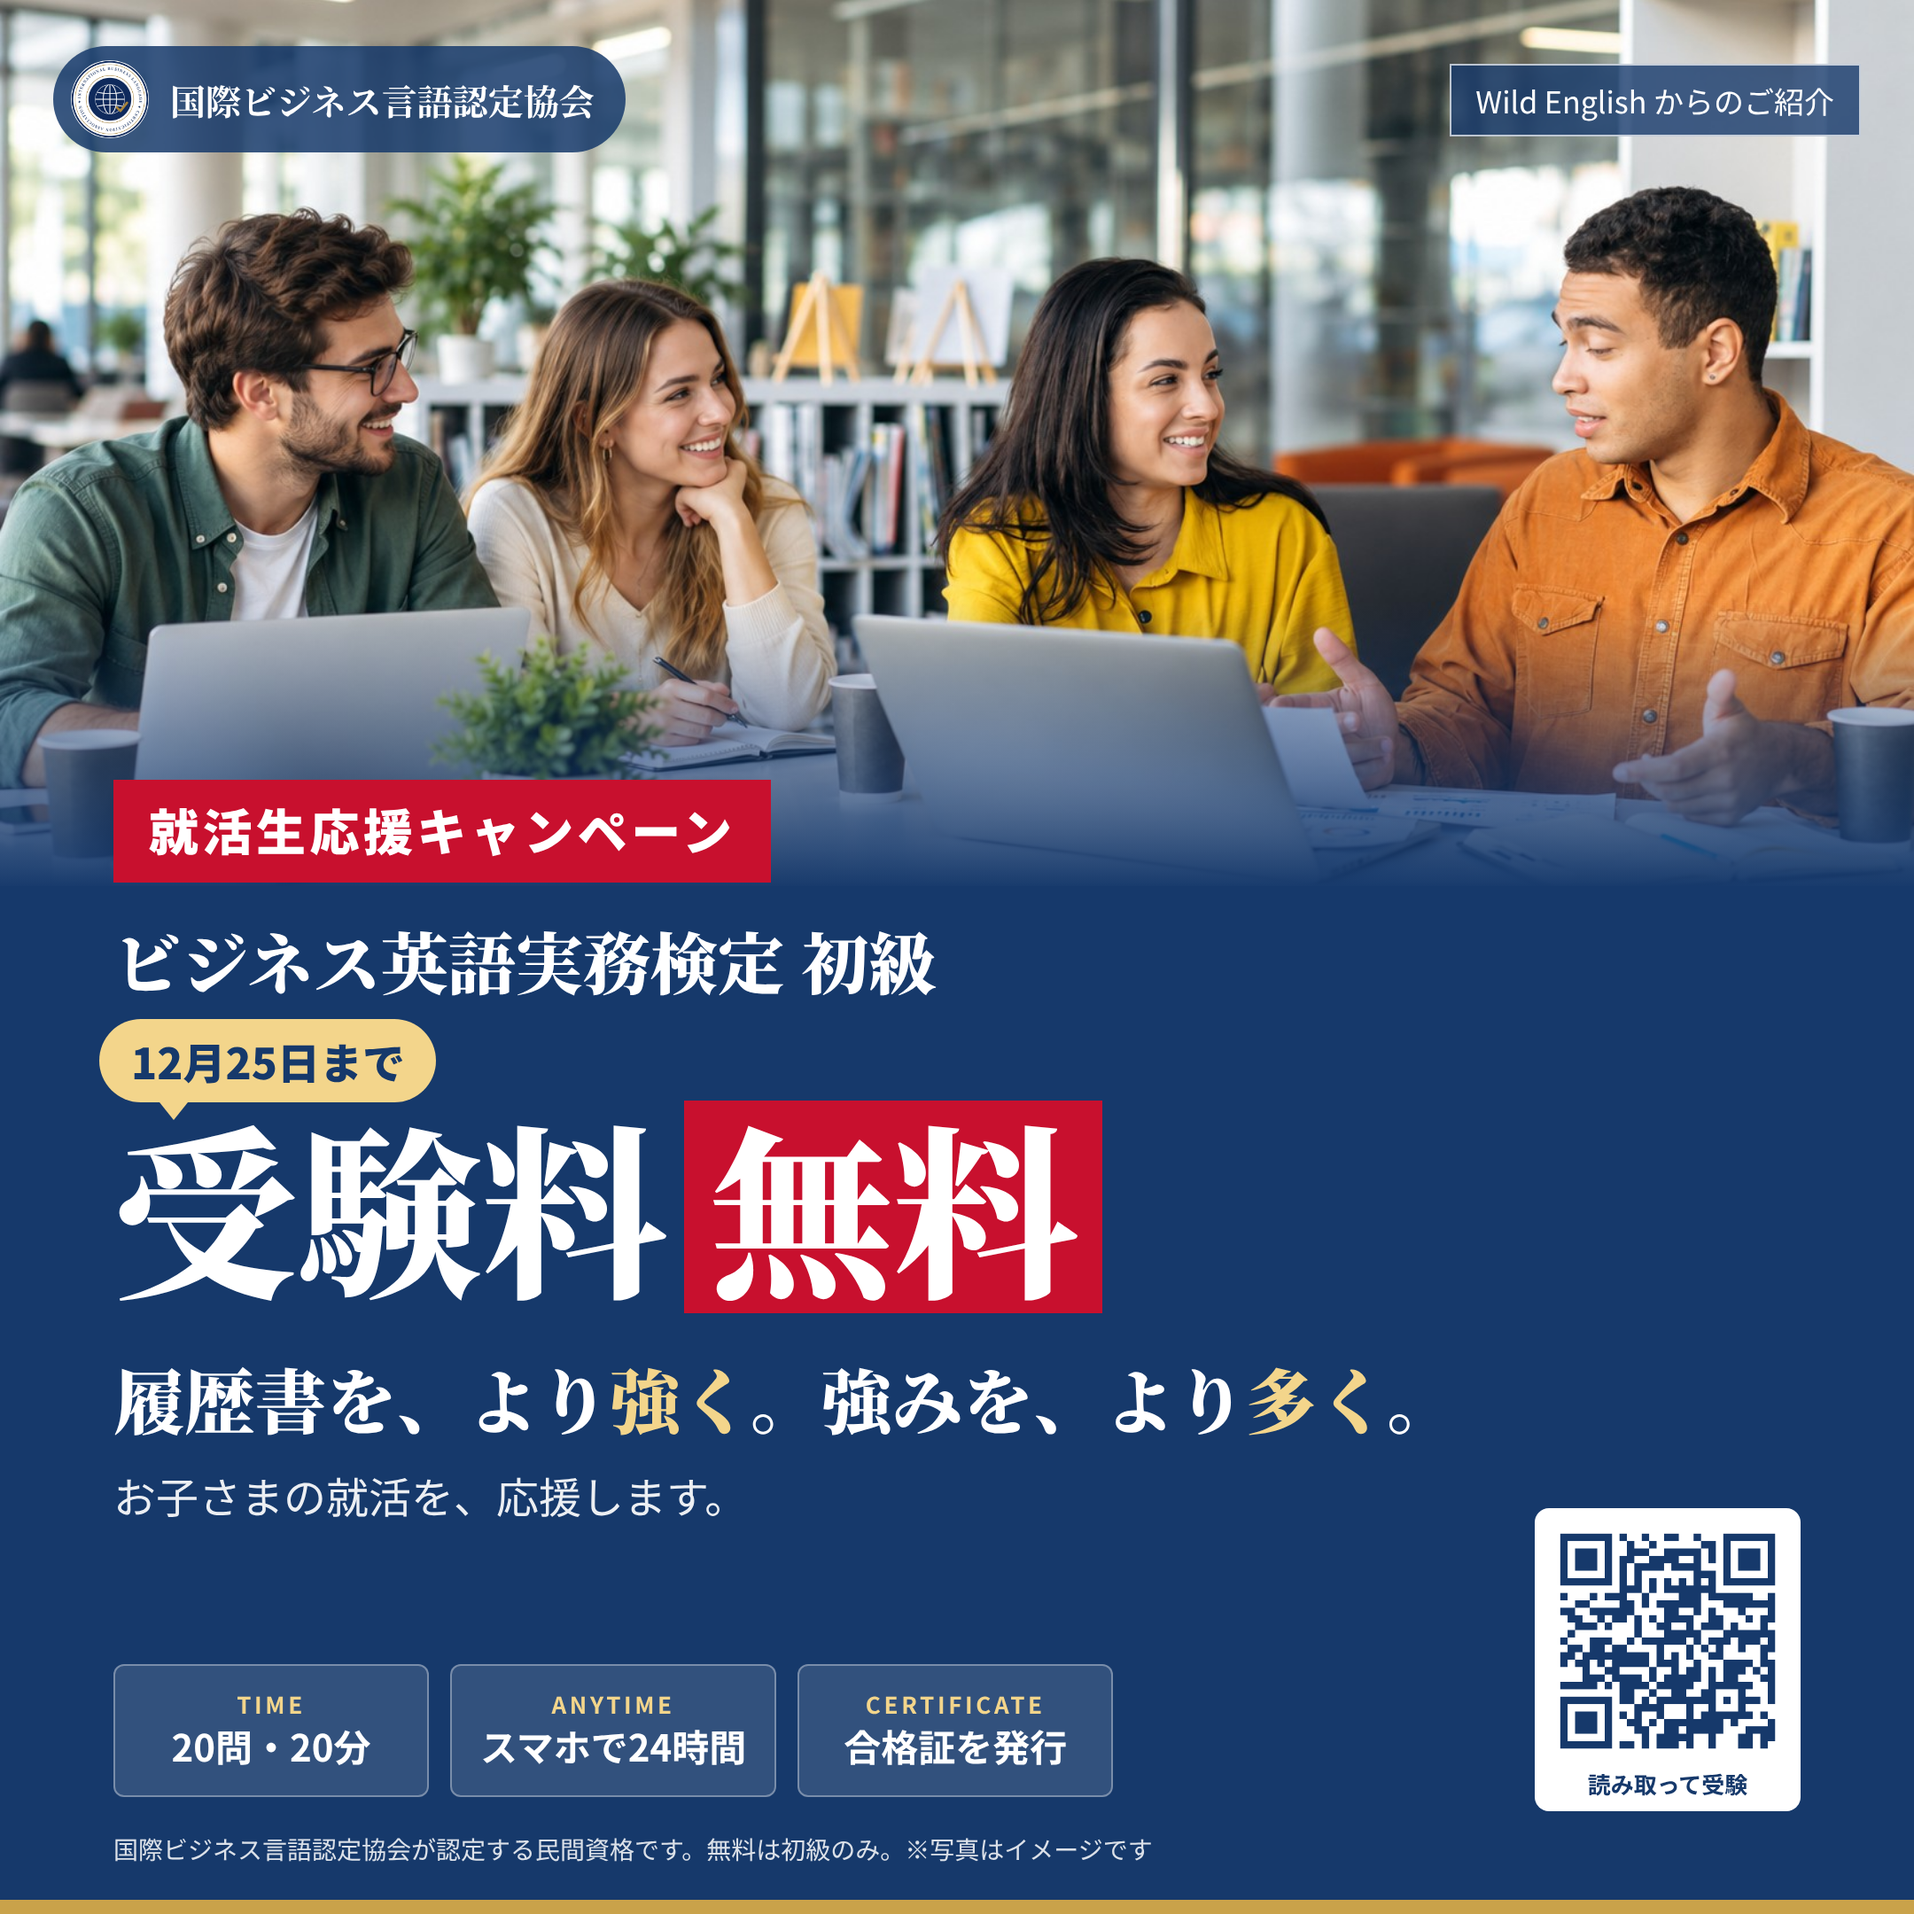
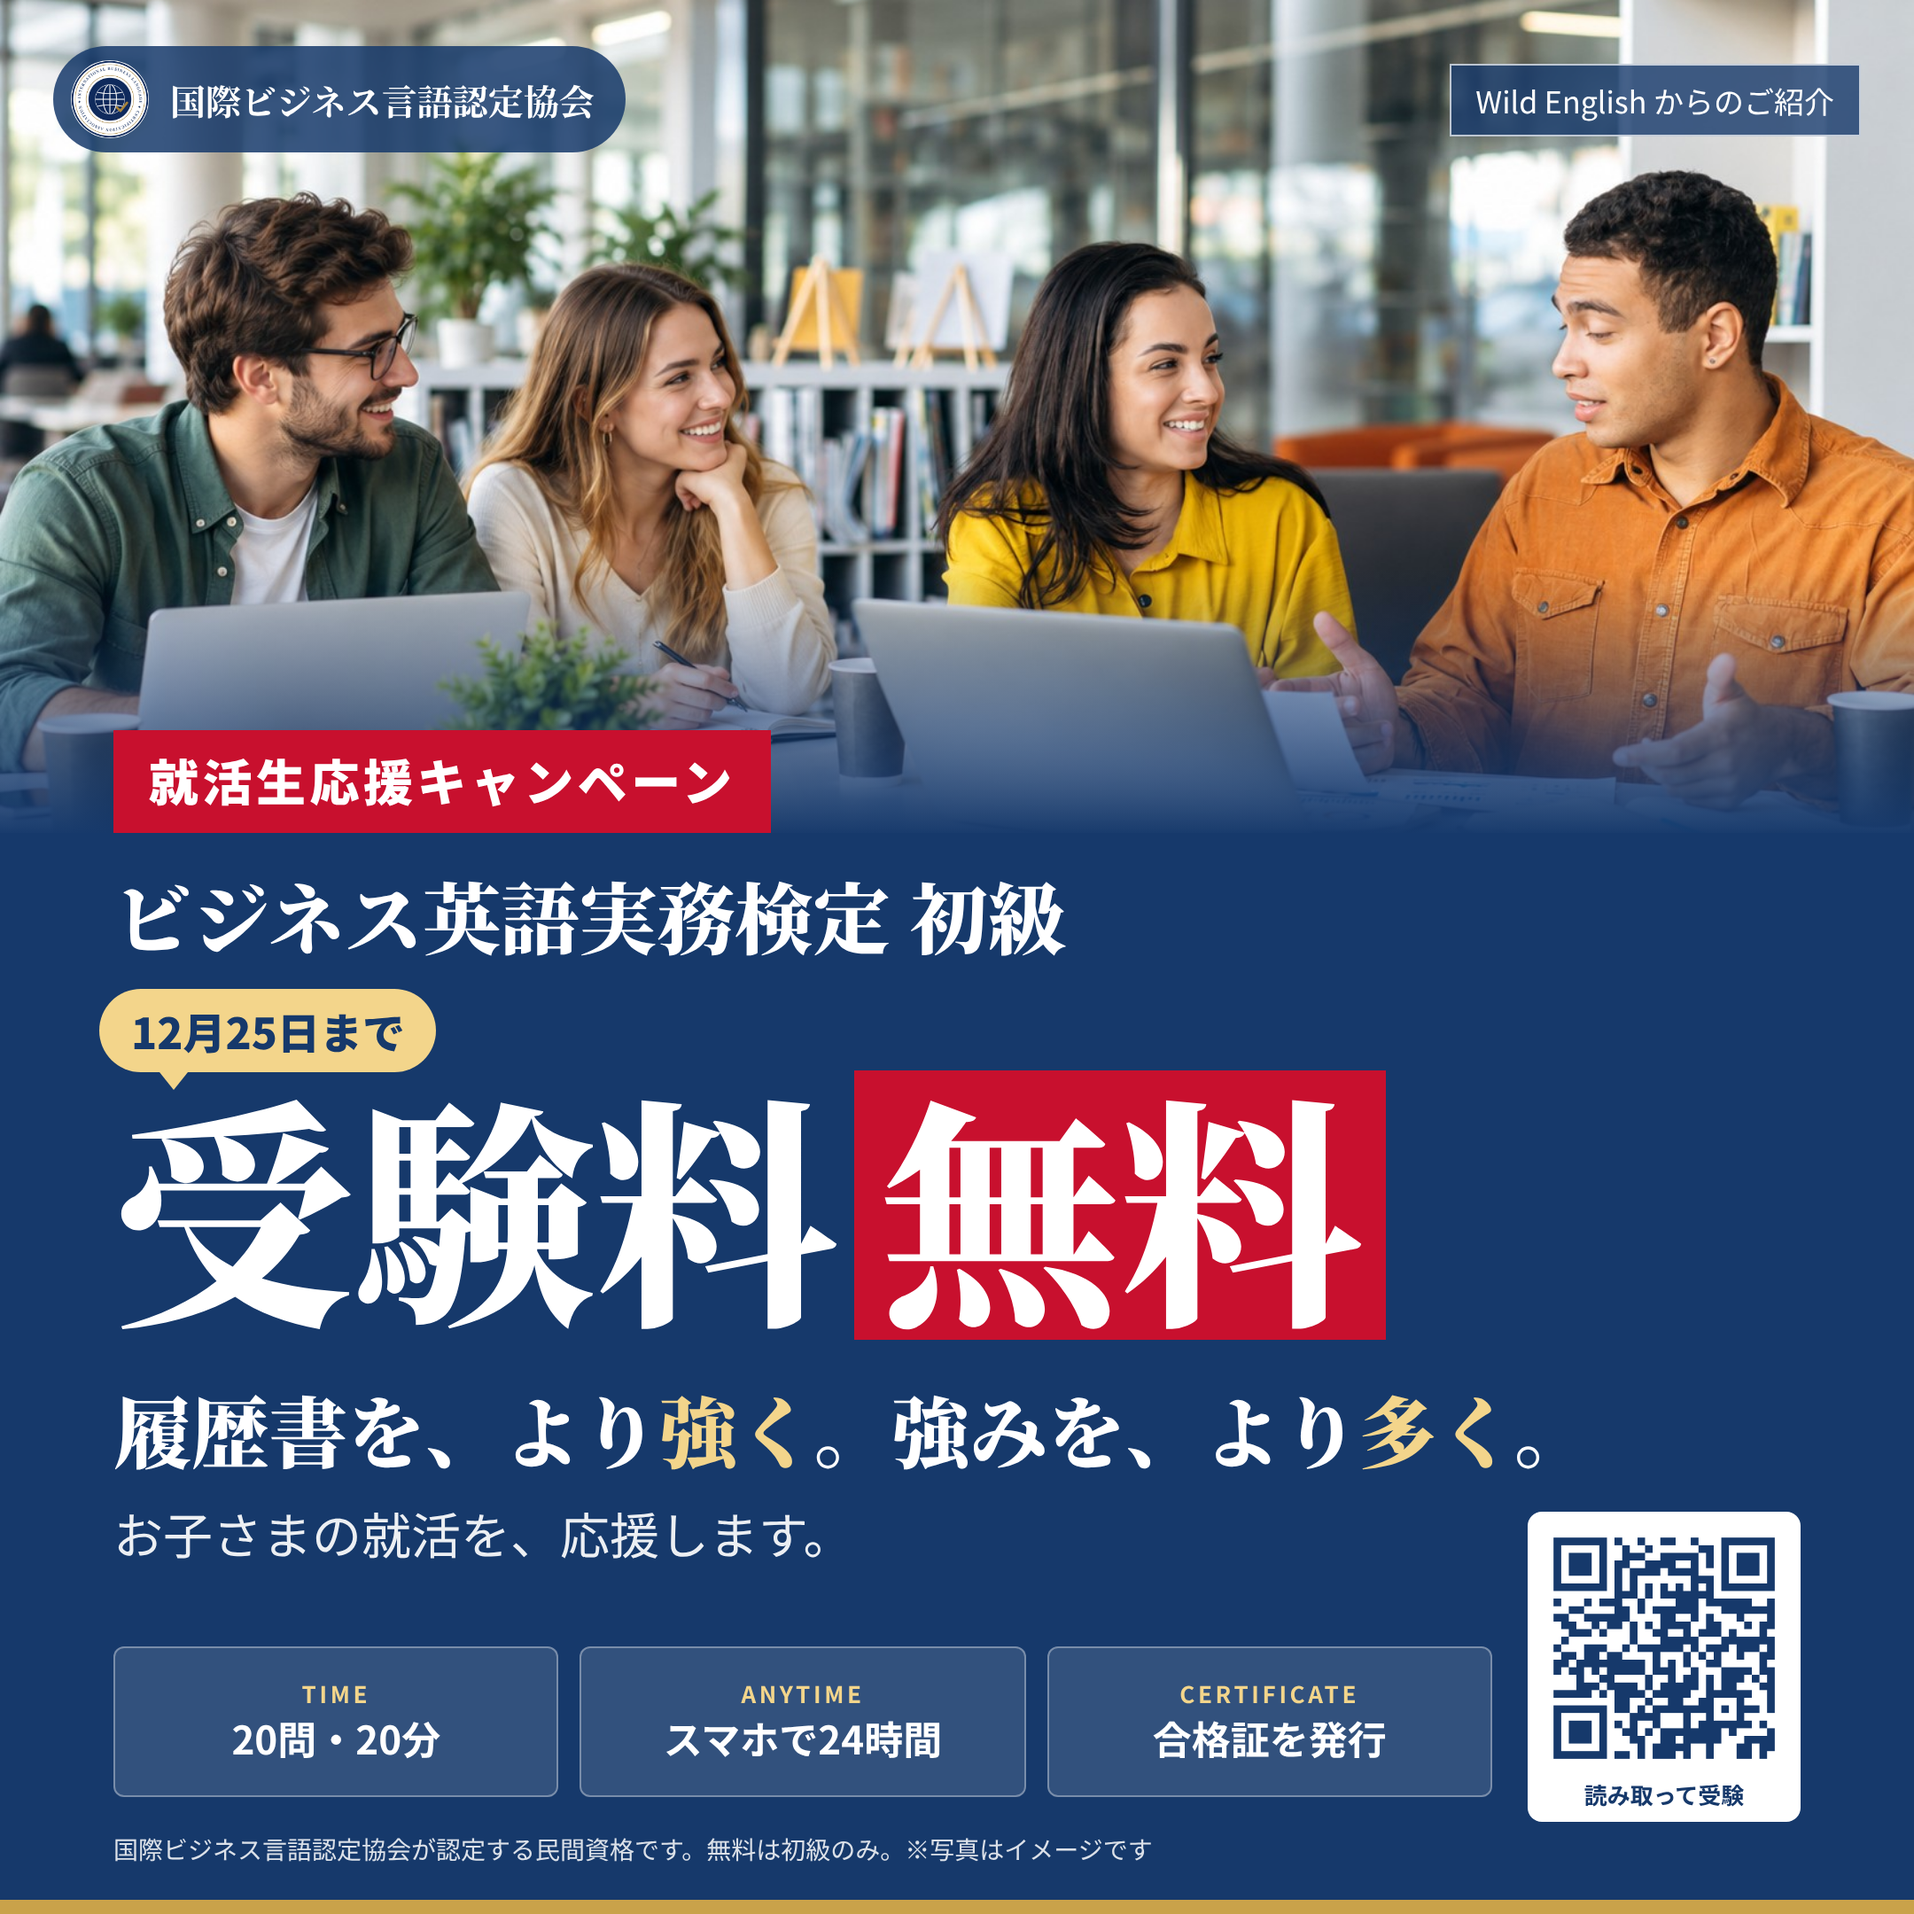
FB広告（正方形）：空白を埋めるように文字と箱を大きく
Claude-Session: https://claude.ai/code/session_01T3NaLWbuuvRT9b8SoudneK

diff --git a/assets/本陣へ/fb_src/combo_1080.html b/assets/本陣へ/fb_src/combo_1080.html
@@ -2,30 +2,30 @@
 *{margin:0;padding:0;box-sizing:border-box}
 :root{--navy:#16396b;--gold:#f3d58b;--red:#c8102e}
 body{width:1080px;height:1080px;position:relative;overflow:hidden;font-family:"Noto Sans CJK JP",sans-serif;color:#fff;background:var(--navy)}
-.photo{position:absolute;left:0;right:0;top:0;height:500px;background:url(students.jpg) 60% 30%/cover}
-.fade{position:absolute;left:0;right:0;top:340px;height:162px;background:linear-gradient(0deg,var(--navy) 0%,rgba(22,57,107,0) 100%)}
+.photo{position:absolute;left:0;right:0;top:0;height:470px;background:url(students.jpg) 60% 30%/cover}
+.fade{position:absolute;left:0;right:0;top:320px;height:152px;background:linear-gradient(0deg,var(--navy) 0%,rgba(22,57,107,0) 100%)}
 .top{position:absolute;left:30px;right:30px;top:26px;display:flex;justify-content:space-between;align-items:center}
 .org{display:flex;align-items:center;gap:12px;background:rgba(22,57,107,.85);padding:8px 18px 8px 10px;border-radius:40px}
 .org img{width:44px;height:44px;background:#fff;border-radius:50%}.org b{font-family:"Noto Serif CJK JP",serif;font-size:20px}
 .pr{border:1px solid rgba(255,255,255,.7);font-size:17px;padding:7px 14px;background:rgba(22,57,107,.8)}
-.cap{position:absolute;right:24px;top:470px;font-size:12px;opacity:.85}
-.main{position:absolute;left:64px;right:64px;top:440px}
+.cap{position:absolute;right:24px;top:440px;font-size:12px;opacity:.85}
+.main{position:absolute;left:64px;right:64px;top:412px}
 .tag{display:inline-block;background:var(--red);font-weight:900;font-size:28px;padding:9px 20px;letter-spacing:.08em}
-.kentei{font-family:"Noto Serif CJK JP",serif;font-weight:900;font-size:38px;margin-top:16px}
-.row{position:relative;margin-top:52px}
+.kentei{font-family:"Noto Serif CJK JP",serif;font-weight:900;font-size:44px;margin-top:14px}
+.row{position:relative;margin-top:56px}
 .bubble{position:absolute;left:-8px;top:-46px;background:var(--gold);color:var(--navy);font-weight:900;font-size:24px;padding:6px 18px;border-radius:24px;white-space:nowrap;z-index:2}
 .bubble:after{content:"";position:absolute;left:34px;bottom:-10px;border:8px solid transparent;border-top:10px solid var(--gold);border-bottom:0}
-.free{font-family:"Noto Serif CJK JP",serif;font-weight:900;font-size:104px;line-height:1.1;white-space:nowrap}
+.free{font-family:"Noto Serif CJK JP",serif;font-weight:900;font-size:136px;line-height:1.08;white-space:nowrap}
 .free em{font-style:normal;display:inline-block;background:var(--red);padding:6px 14px 10px;margin-left:10px;line-height:1}
-.flag{font-family:"Noto Serif CJK JP",serif;font-weight:900;font-size:40px;margin-top:20px;white-space:nowrap}
+.flag{font-family:"Noto Serif CJK JP",serif;font-weight:900;font-size:44px;margin-top:18px;white-space:nowrap}
 .flag em{font-style:normal;color:var(--gold)}
-.parent{font-size:24px;margin-top:8px;opacity:.92}
-.facts{position:absolute;left:64px;bottom:66px;display:flex;gap:12px}
-.fact{background:rgba(255,255,255,.12);border:1px solid rgba(255,255,255,.35);border-radius:6px;text-align:center;padding:12px 16px;min-width:178px}
+.parent{font-size:28px;margin-top:8px;opacity:.92}
+.facts{position:absolute;left:64px;right:238px;bottom:66px;display:flex;gap:12px}
+.fact{background:rgba(255,255,255,.12);border:1px solid rgba(255,255,255,.35);border-radius:6px;text-align:center;padding:16px 8px;flex:1}
 .fact b{display:block;color:var(--gold);font-size:13px;letter-spacing:.14em}
-.fact span{font-weight:700;font-size:21px}
-.qrw{position:absolute;right:64px;bottom:58px;background:#fff;border-radius:8px;padding:6px;text-align:center}
-.qrw img{display:block;width:138px;height:138px}
+.fact span{font-weight:700;font-size:22px}
+.qrw{position:absolute;right:64px;bottom:52px;background:#fff;border-radius:8px;padding:6px;text-align:center}
+.qrw img{display:block;width:142px;height:142px}
 .qrw span{display:block;color:var(--navy);font-size:13px;font-weight:700;margin-top:2px}
 .note{position:absolute;left:64px;bottom:26px;font-size:14px;opacity:.85}
 .line{position:absolute;left:0;right:0;bottom:0;height:8px;background:#c9a24a}
